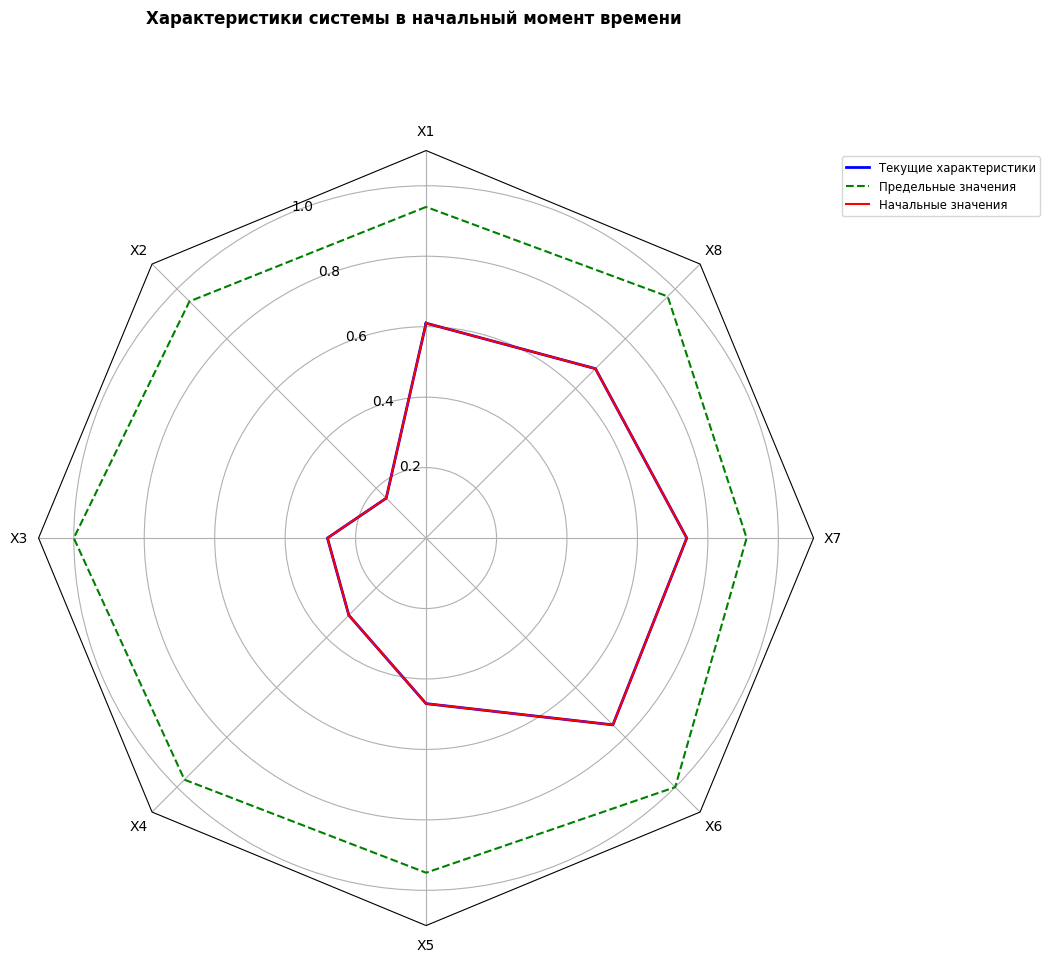
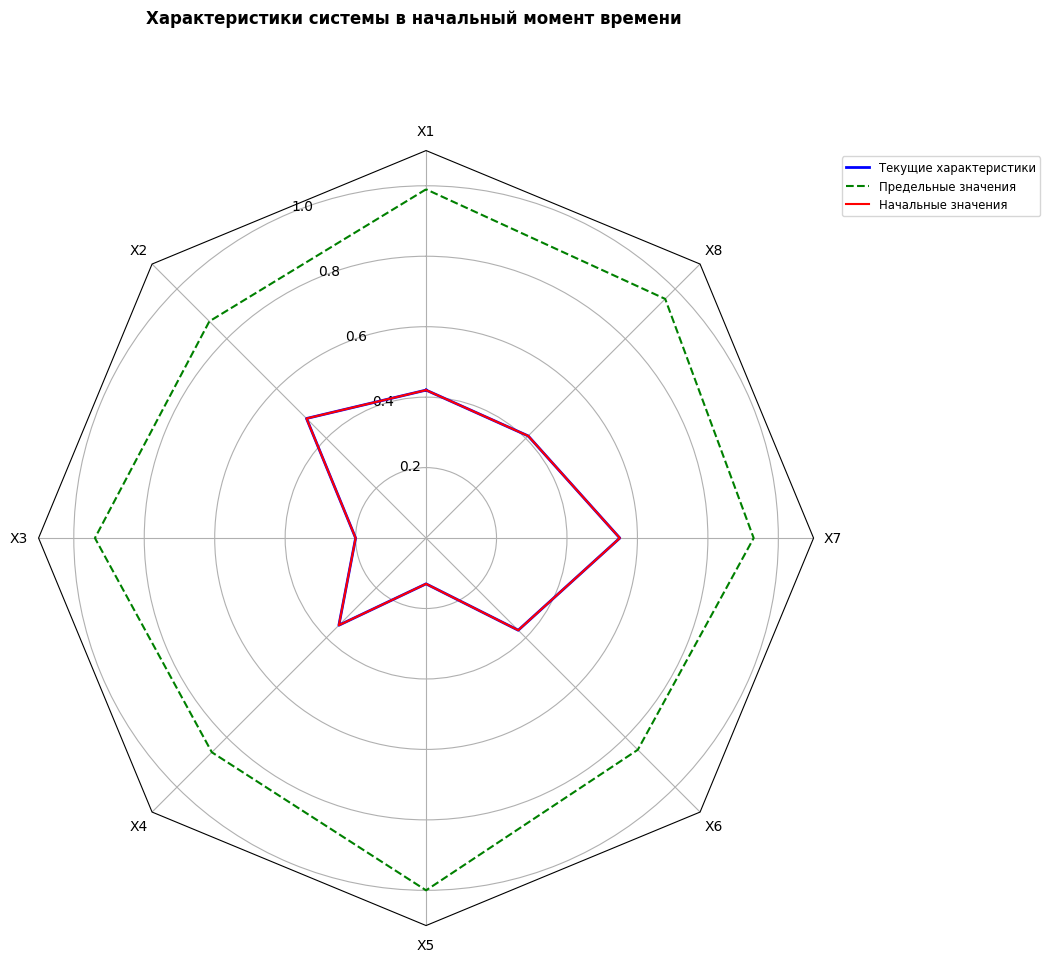
графики

diff --git a/templates/index.html b/templates/index.html
@@ -94,6 +94,12 @@
         .compact-initial-row .label-col .x-label {
             font-size: 16px;
         }
+        .x-label sub {
+            vertical-align: sub; /* Выравнивание как нижний индекс */
+            line-height: 0;
+            position: relative;
+            bottom: -0.25em; /* Корректировка позиции */
+        }
         /* описание характеристики (подпись) — меньше и более приглушённый цвет */
         .compact-initial-row .label-col .param-label {
                             flex: 1;
@@ -281,7 +287,7 @@
                             <div class="eq-expression">
                                 <input class="equation-input" name="f{{ i }}_k" 
                                        value="{{ (values.equations[i-1][0] if values else defaults.equations[i-1][0]) }}"
-                                       placeholder="0.5" type="text" />
+                                       placeholder="0.1" type="text" />
                                 <span class="formula-text">·X{{ u_subscript }} +</span>
                                 <input class="equation-input" name="f{{ i }}_b" 
                                        value="{{ (values.equations[i-1][1] if values else defaults.equations[i-1][1]) }}"
@@ -306,7 +312,7 @@
             <div class="compact-initial-row">
                 <div class="label-col">
                     <!-- Разделил на две строки: X# и описание (param-label) -->
-                    <div class="x-label">X{{ i }}</div>
+                    <div class="x-label">X{{ i | subscript }}</div>
                     <div class="param-label">{{ u_labels[i-1] }}</div>
                 </div>
                 <div class="value-col">

diff --git a/functions.py b/functions.py
@@ -1,79 +1,95 @@
-import math
 import numpy as np
 
-# Линейные внешние факторы
-def F1(t, params):
-    a, b = params  # a + b*t
-    value = a + b * t
-    return max(0.1, min(1.0, value))
+# ===============================
+# ЛИНЕЙНЫЕ ВНЕШНИЕ ФАКТОРЫ Fi(t)
+# ===============================
 
-def F2(t, params):
+def F1(t, params):  # обучение / подготовка пилотов
     a, b = params
-    value = a + b * t
-    return max(0.1, min(1.0, value))
+    return np.clip(a + b * t, 0.1, 1.0)
 
-def F3(t, params):
+def F2(t, params):  # рост частной авиации
     a, b = params
-    value = a + b * t
-    return max(0.1, min(1.0, value))
+    return np.clip(a + b * t, 0.1, 1.0)
 
-def F4(t, params):
+def F3(t, params):  # усиление контроля
     a, b = params
-    value = a + b * t
-    return max(0.1, min(1.0, value))
+    return np.clip(a + b * t, 0.1, 1.0)
 
-def F5(t, params):
+def F4(t, params):  # развитие метеослужб
     a, b = params
-    value = a + b * t
-    return max(0.1, min(1.0, value))
+    return np.clip(a + b * t, 0.1, 1.0)
 
-# Линейные функции f_i(x) = k*x + b
+def F5(t, params):  # общий уровень безопасности
+    a, b = params
+    return np.clip(a + b * t, 0.1, 1.0)
+
+
+# ===============================
+# ЛИНЕЙНАЯ ФУНКЦИЯ ВЛИЯНИЯ
+# ===============================
+
 def fx(x, params):
     k, b = params
-    result = k * x + b
-    return np.clip(result, 0.05, 0.95)
+    return np.clip(k * x + b, 0.05, 0.95)
 
-# Система дифференциальных уравнений (3) из документа
+
+# ===============================
+# ЛИНЕЙНАЯ СИСТЕМА УРАВНЕНИЙ
+# ===============================
+
 def pend(u, t, factors, f):
-    # u имеет 8 элементов: X1..X8
-    # factors: 5 внешних факторов
-    # f: 18 линейных функций f1..f18
-    
-    dudt = np.zeros(8)
-    
-    # Вычисляем внешние факторы в момент времени t
+    """
+    u = [X1..X8]
+    factors = [(a,b)*5]
+    f = [(k,b)*18]
+    """
+
+    X1, X2, X3, X4, X5, X6, X7, X8 = u
+
     F1_val = F1(t, factors[0])
     F2_val = F2(t, factors[1])
     F3_val = F3(t, factors[2])
     F4_val = F4(t, factors[3])
     F5_val = F5(t, factors[4])
-    
-    # Уравнение для X1
-    dudt[0] = F3_val - fx(u[1], f[0]) * fx(u[2], f[1]) * fx(u[3], f[2])
-    
-    # Уравнение для X2
-    dudt[1] = (F1_val + F2_val + F4_val) * fx(u[3], f[3]) * fx(u[5], f[4]) * fx(u[6], f[5]) - \
-              (F3_val + F5_val) * fx(u[7], f[6])
-    
-    # Уравнение для X3
-    dudt[2] = F4_val * fx(u[6], f[7]) - (F3_val + F5_val) * fx(u[0], f[8])
-    
-    # Уравнение для X4
-    dudt[3] = F2_val * fx(u[1], f[9]) * fx(u[6], f[10]) - \
-              (F3_val + F5_val) * fx(u[0], f[11])
-    
-    # Уравнение для X5
-    dudt[4] = fx(u[1], f[12]) - F5_val
-    
-    # Уравнение для X6
-    dudt[5] = F2_val * fx(u[1], f[13]) - F5_val
-    
-    # Уравнение для X7
-    dudt[6] = F2_val * fx(u[1], f[14]) * fx(u[2], f[15]) * fx(u[3], f[16]) - \
-              (F3_val + F5_val)
-    
-    # Уравнение для X8
-    dudt[7] = F5_val - fx(u[1], f[17])
-    
-    # Ограничиваем скорость изменения
+
+    dudt = np.zeros(8)
+
+    # ===============================
+    # УПРАВЛЯЮЩИЕ ПОКАЗАТЕЛИ
+    # ===============================
+
+    # X1 — нарушения пилотами (должны уменьшаться)
+    dudt[0] = -0.6 * F1_val - 0.4 * fx(X3, f[0])
+
+    # X2 — доля частных судов (растёт)
+    dudt[1] =  0.5 * F2_val - 0.2 * X2
+
+    # X3 — активность контроля (растёт)
+    dudt[2] =  0.6 * F3_val - 0.3 * X3
+
+    # X4 — метеослужбы (растут)
+    dudt[3] =  0.6 * F4_val - 0.3 * X4
+
+
+    # ===============================
+    # ПРИЧИНЫ КАТАСТРОФ
+    # ===============================
+
+    # X5 — метеоусловия (уменьшаются при росте X4)
+    dudt[4] =  0.5 * X1 - 0.7 * X4 - 0.2 * X5
+
+    # X6 — технические неисправности (уменьшаются при росте контроля)
+    dudt[5] =  0.4 * X2 - 0.7 * X3 - 0.2 * X6
+
+    # X7 — человеческий фактор (уменьшается при снижении X1)
+    dudt[6] =  0.6 * X1 - 0.6 * X3 - 0.2 * X7
+
+
+    # ===============================
+    # ОБЩЕЕ ЧИСЛО КАТАСТРОФ
+    # ===============================
+
+    dudt[7] = -0.6 * X8
+
     return np.clip(dudt, -0.5, 0.5)
